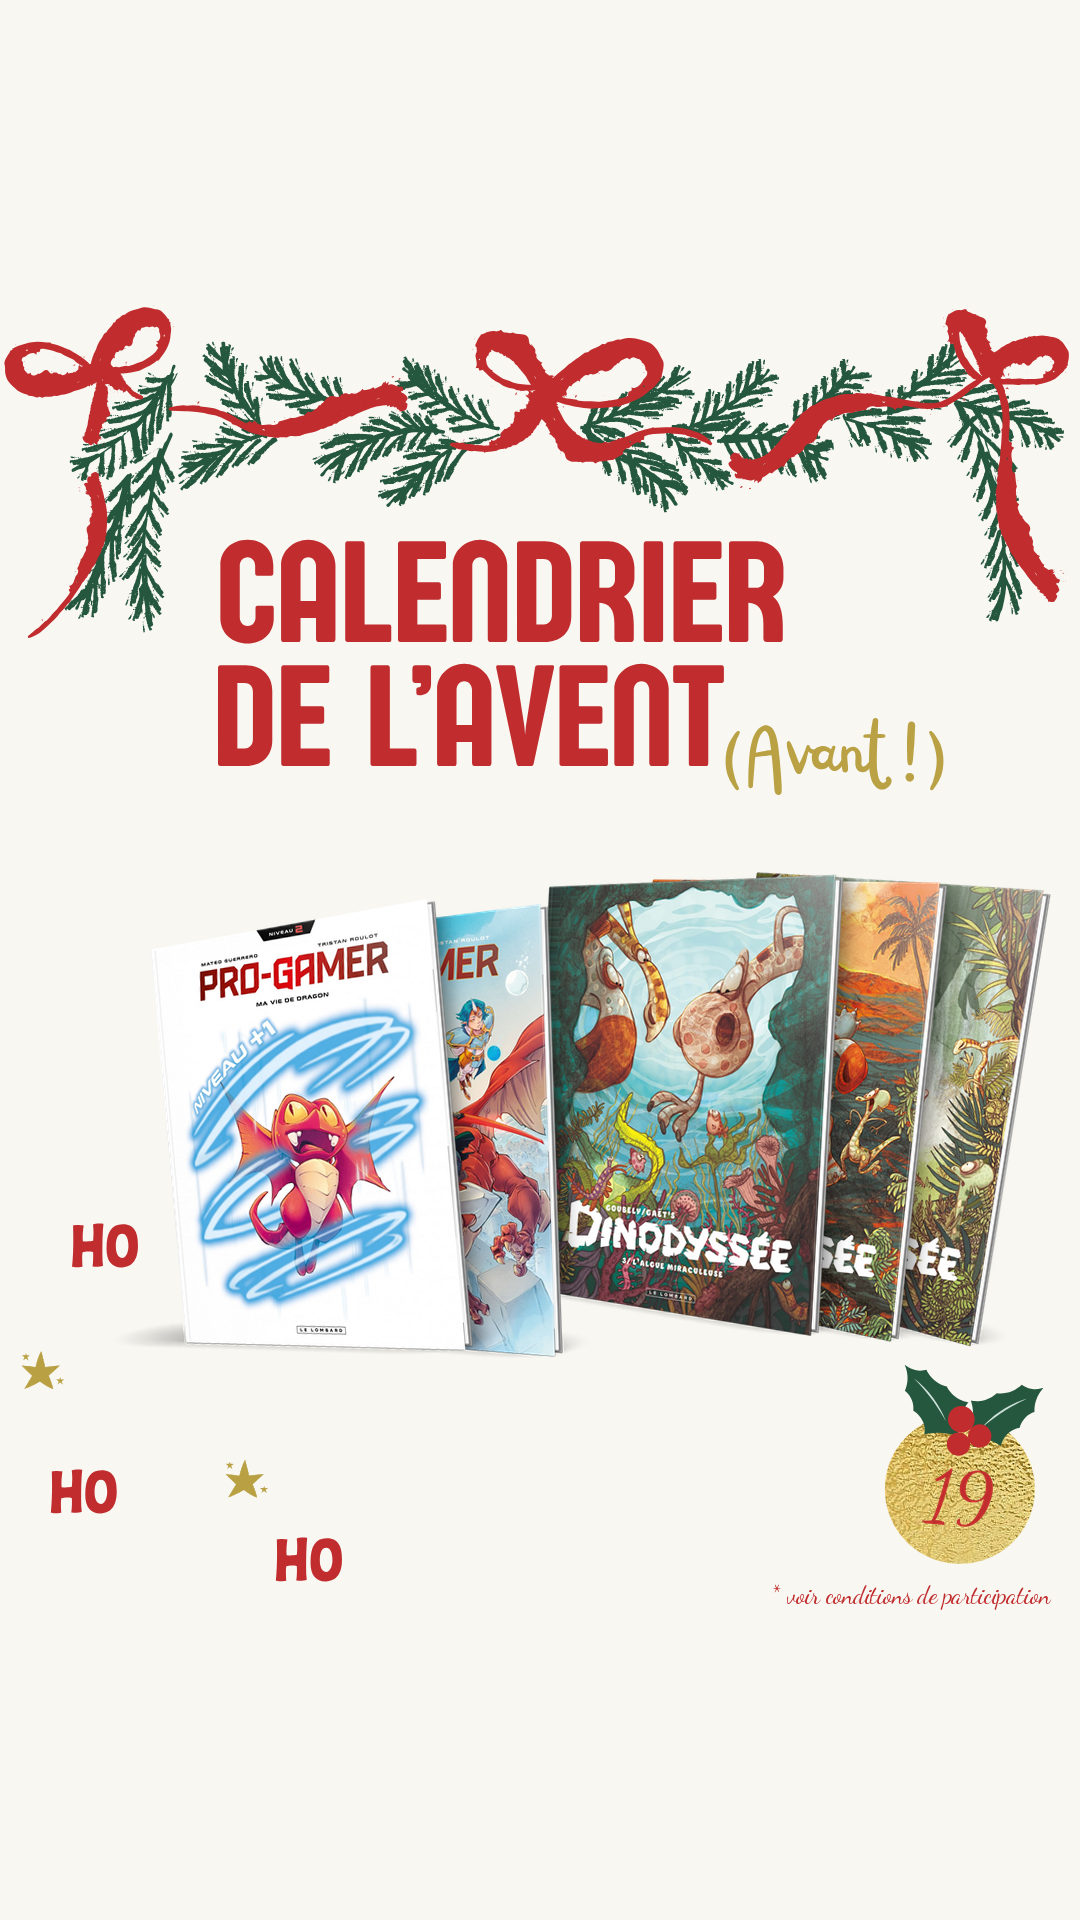
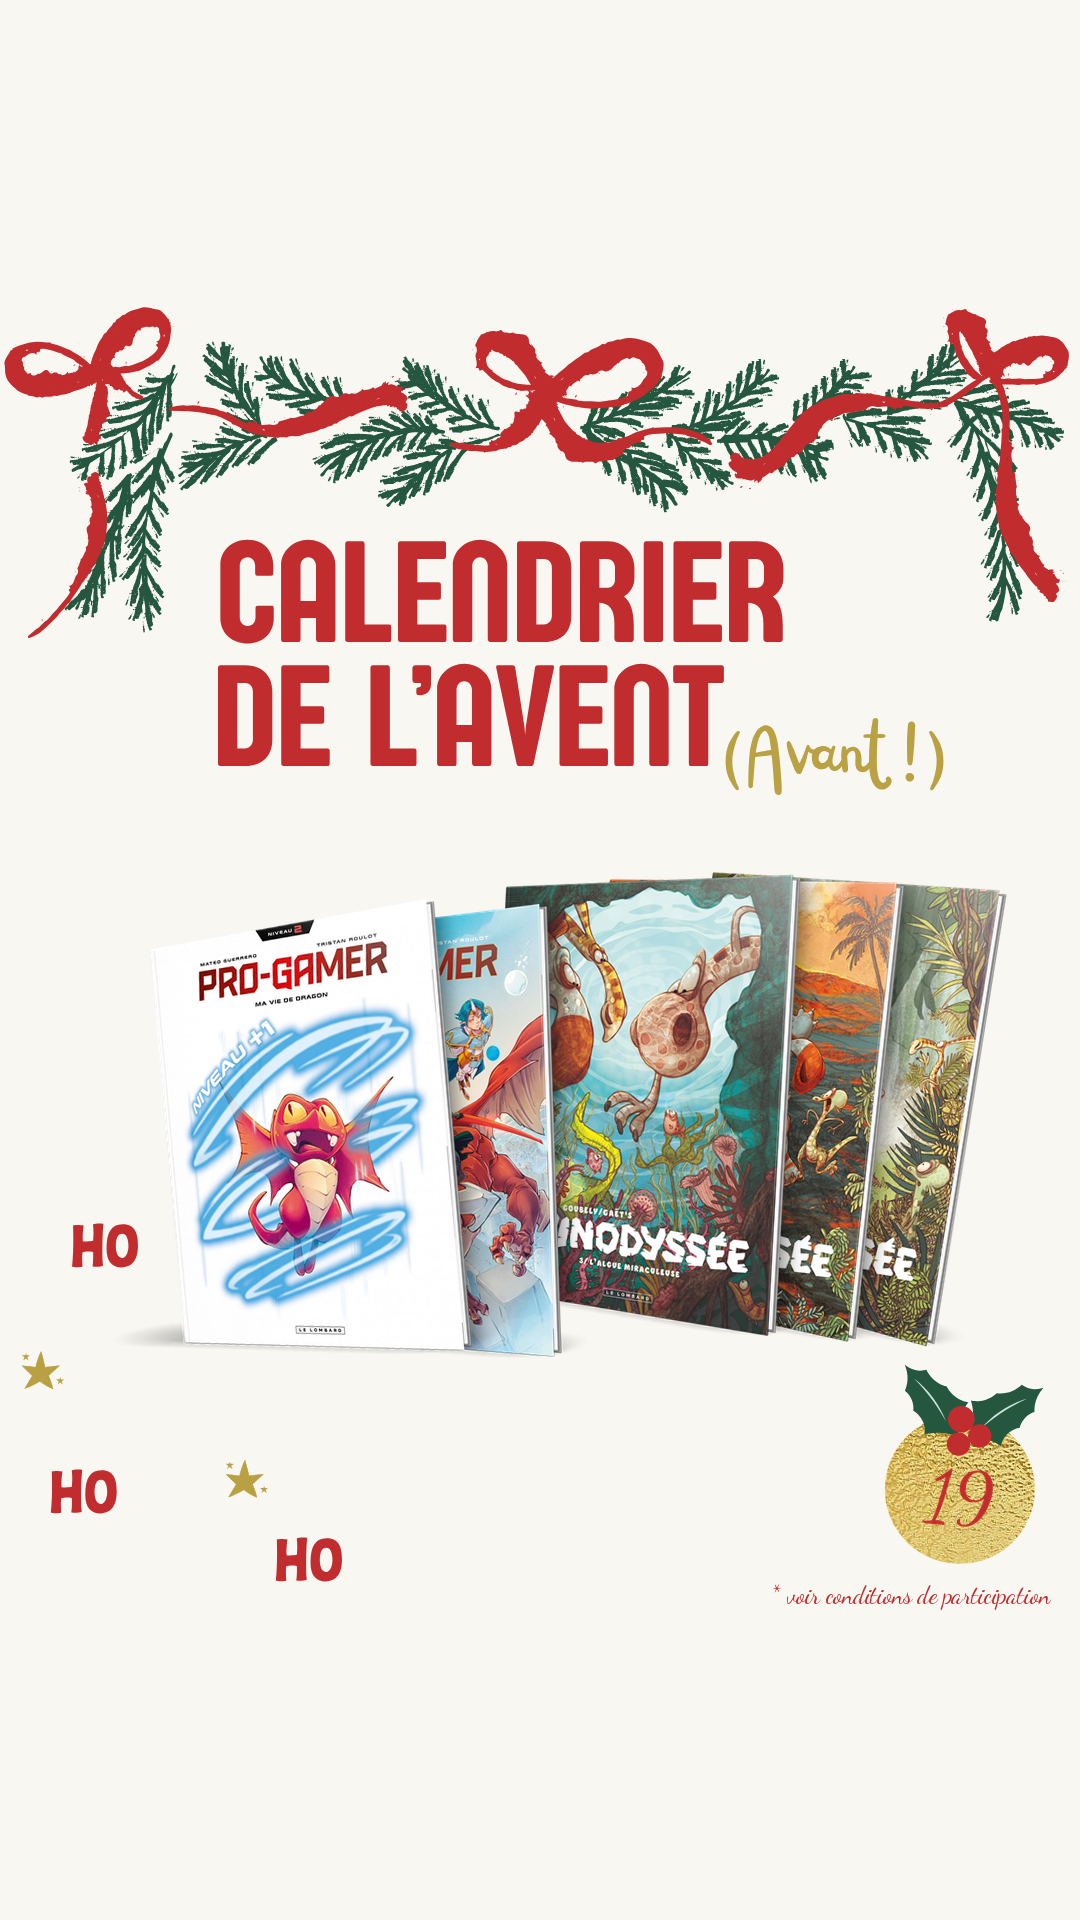
Calendrier Avant : jour 19, Dinodyssée glissé à gauche sous Pro gamer
Claude-Session: https://claude.ai/code/session_01QaZk7QZvzTVY1x8op41wve

Changed region(s): [[0.3972, 0.4375, 0.9778, 0.7188], [0.1833, 0.4688, 0.3667, 0.6562]]

diff --git a/calendrier-avent-2026/planning.py b/calendrier-avent-2026/planning.py
@@ -70,7 +70,7 @@ COMPOSITIONS = {
         'books': [('9782808218078', -5, 1.0, 5), ('9782808216784', -2, 1.0, 4),
                   ('9782808216821', 3, 1.02, 3), ('9782808214933', 6, 1.02, 2), ('9782808212496', 9, 1.02, 1)],
         'dy': [20, 20, -15, -15, -15],
-        'steps': [0.35, 0.95, 0.32, 0.32], 'h': 460, 'y': 600, 'cx': 590,
+        'steps': [0.35, 0.80, 0.32, 0.32], 'h': 460, 'y': 600, 'cx': 568,   # Dinodyssée glissé sous Pro gamer
     },
     # même mise en page que le jour 16 : M.A.D. 3 devant, 2 et 1 derrière | Holmes vs Lupin 2, puis 1 derrière
     'jour18': {
